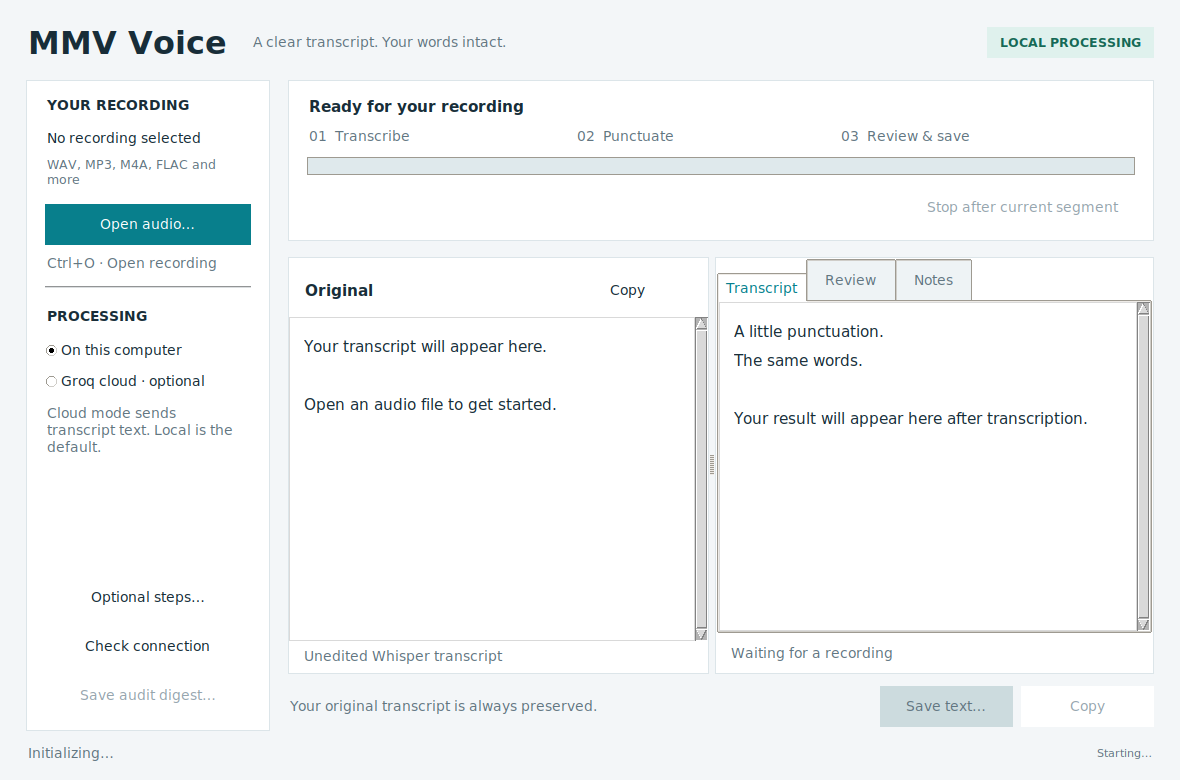
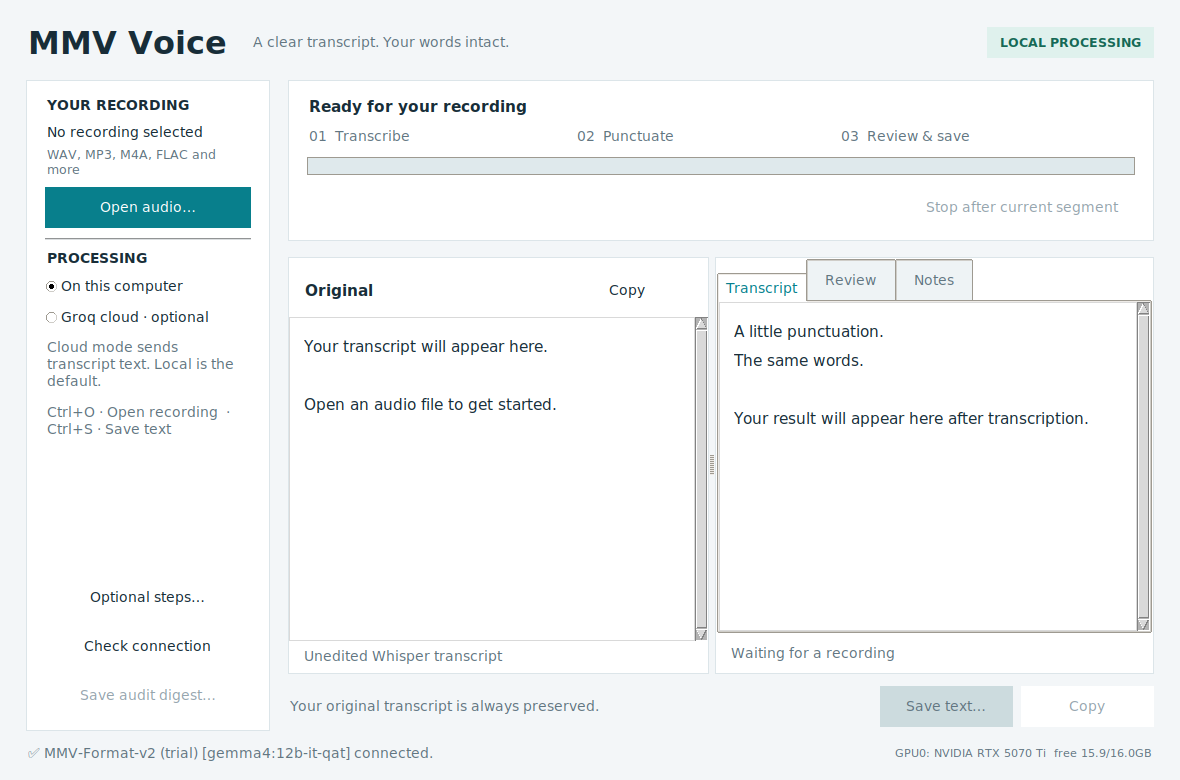
v0.2.6: HiDPI sidebar fix; v0.3/v0.3b HOLD reports in eval/; doc corrections
- desktop_ui.py: essential controls first, hints last, tighter spacing, so the
  local/cloud choice is never clipped at large Tk scaling (found on a 1.33x
  display); regression test at scaling 1.8 / 980x680
- eval/: v0.3 and v0.3b reports (both HOLD) so the notes point at evidence that
  is in the repository; README/landing/UI_UX_UPDATE state the v0.3b cause
  (auto language detection chose Dutch for an English meeting, WER 43% -> 85%)
- "being measured for v0.3" -> measured, on hold; diagram label -> Review tab;
  screenshot re-captured

No change to prompts, voice_mmv.py, profiles, validator or chunking.

diff --git a/index.html b/index.html
@@ -85,7 +85,7 @@ bash launch.sh            # opens the app</code></pre>
   <p class="note">Small read-speech panels; the 95% intervals overlap; FLEURS training overlap unresolved. Details: <a href="eval/mmv_voice_v024_20260926.md">v0.2.4 evidence</a>.</p>
 
   <h2>Long recordings: what to expect today</h2>
-  <p>On a real 17.5-minute, four-person meeting (AMI ES2004a), transcription took 32 s including model load (27 s transcribing) on one RTX 5070 Ti (WER 27% on overlapping, informal speech). Formatting stepped aside on 11 of 12 chunks, returning Whisper's text unchanged — your words stay safe, but on meetings you mostly get Whisper's own punctuation. Observed causes: the MMV governance layer prepended a boilerplate sentence to 6 conversational chunks; in the other 5 the model changed capitalisation, mostly where the 1,000-character split cut a sentence. A fix is being measured for v0.3.</p>
+  <p>On a real 17.5-minute, four-person meeting (AMI ES2004a), transcription took 32 s including model load (27 s transcribing) on one RTX 5070 Ti (WER 27% on overlapping, informal speech). Formatting stepped aside on 11 of 12 chunks, returning Whisper's text unchanged — your words stay safe, but on meetings you mostly get Whisper's own punctuation. Observed causes: the MMV governance layer prepended a boilerplate sentence to 6 conversational chunks; in the other 5 the model changed capitalisation, mostly where the 1,000-character split cut a sentence. Two fixes were measured and put on hold: stripping the boilerplate and splitting at sentence ends (v0.3) helped but missed its gate; adding Whisper's <code>condition_on_previous_text=False</code> (v0.3b) removed repetition loops and reached 4 of 5 formatted chunks, but Whisper's automatic language detection then labelled an English meeting as Dutch and WER rose from 43% to 85%. Reports: <a href="eval/mmv_voice_v03_20260926.md">v0.3</a>, <a href="eval/mmv_voice_v03b_20260926.md">v0.3b</a>.</p>
 
   <h2>Measured results</h2>
   <div class="table-wrap" tabindex="0" role="region" aria-label="Measured results, scroll horizontally on small screens"><table>

diff --git a/desktop_ui.py b/desktop_ui.py
@@ -56,20 +56,23 @@ class WorkspaceUI:
         def label(text, bold=False, pady=(0, 8)):
             tk.Label(inner, text=text, bg='white', fg=INK if bold else MUTED, anchor='w', justify='left', wraplength=200,
                      font=('DejaVu Sans', 10, 'bold' if bold else 'normal')).pack(fill='x', pady=pady)
-        label('YOUR RECORDING', True)
-        tk.Label(inner, textvariable=self.file_var, bg='white', fg=INK, anchor='w', justify='left', wraplength=200).pack(fill='x', pady=(4, 6))
-        tk.Label(inner, textvariable=self.file_detail_var, bg='white', fg=MUTED, anchor='w', justify='left', wraplength=200, font=('DejaVu Sans', 9)).pack(fill='x', pady=(0, 15))
+        # Order and padding matter: at large Tk scaling (HiDPI, e.g. 1.33x–1.8x) the
+        # sidebar is height-limited and clips from the bottom, so the essential
+        # controls (open, local/cloud choice) come first and the hints come last.
+        label('YOUR RECORDING', True, pady=(0, 4))
+        tk.Label(inner, textvariable=self.file_var, bg='white', fg=INK, anchor='w', justify='left', wraplength=200).pack(fill='x', pady=(2, 2))
+        tk.Label(inner, textvariable=self.file_detail_var, bg='white', fg=MUTED, anchor='w', justify='left', wraplength=200, font=('DejaVu Sans', 9)).pack(fill='x', pady=(0, 8))
         self.select_btn = ttk.Button(inner, text='Open audio…', style='Accent.TButton', command=self.select_file)
         self.select_btn.pack(fill='x')
-        label('Ctrl+O · Open recording', pady=(8, 12))
-        ttk.Separator(inner).pack(fill='x', pady=(0, 18))
-        label('PROCESSING', True)
+        ttk.Separator(inner).pack(fill='x', pady=(10, 8))
+        label('PROCESSING', True, pady=(0, 2))
         self.engine_m_btn = ttk.Radiobutton(inner, text='On this computer', variable=self.engine_var, value='M', command=self._refresh_privacy)
         self.engine_m_btn.pack(anchor='w')
         self.engine_l_btn = ttk.Radiobutton(inner, text='Groq cloud · optional', variable=self.engine_var, value='L', command=self._confirm_cloud_engine)
         self.engine_l_btn.pack(anchor='w')
         if not self._cloud_available: self.engine_l_btn.state(['disabled'])
-        label('Cloud mode sends transcript text. Local is the default.', pady=(6, 10))
+        label('Cloud mode sends transcript text. Local is the default.', pady=(4, 6))
+        label('Ctrl+O · Open recording  ·  Ctrl+S · Save text', pady=(4, 0))
         self.options_btn = ttk.Button(side_actions, text='Optional steps…', command=self._show_options)
         self.options_btn.pack(fill='x')
         self.option_widgets = [self.options_btn]

diff --git a/tests/test_desktop.py b/tests/test_desktop.py
@@ -35,6 +35,18 @@ class DesktopTests(unittest.TestCase):
             self.assertTrue(w.winfo_ismapped(),name)
             self.assertLessEqual(w.winfo_rooty()+w.winfo_height(),self.root.winfo_rooty()+self.root.winfo_height(),name)
         self.assertEqual(self.app.fmt_textbox.cget('state'),'disabled')
+    def test_minimum_layout_at_hidpi_scaling(self):
+        # Regression: on a 1.33x display the cloud-engine radio was clipped out of the sidebar (v0.2.5).
+        self.app._busy = False; self.app.on_closing()
+        self.root = tk.Tk(); self.root.tk.call('tk', 'scaling', 1.8)
+        with patch.object(gui.WhisperMMVGUI, '_startup_check', lambda self: None):
+            self.app = gui.WhisperMMVGUI(self.root)
+        self.root.report_callback_exception = lambda *args: self.errors.append(args)
+        self.root.geometry('980x680'); self.root.update()
+        for name in ['select_btn','engine_m_btn','engine_l_btn','options_btn','digest_btn','export_btn','kill_btn']:
+            w=getattr(self.app,name)
+            self.assertTrue(w.winfo_ismapped(),name)
+            self.assertLessEqual(w.winfo_rooty()+w.winfo_height(),self.root.winfo_rooty()+self.root.winfo_height(),name)
     def test_worker_updates_are_queued_and_bounded(self):
         seen=[]
         worker=threading.Thread(target=lambda:[self.app.ui(lambda:seen.append(threading.get_ident())) for _ in range(600)])

diff --git a/eval/mmv_voice_v03_20260926.md b/eval/mmv_voice_v03_20260926.md
@@ -1,0 +1,100 @@
+# mmv-voice v0.3: Long-form formatting repair evaluation
+
+## Decision
+
+**HOLD.** Version 0.3 substantially improved long-form formatting, but it missed the frozen held-out threshold: 5 of 11 held-out chunks were delivered with formatting (`45.45%`), below the required `50%`. One additional held-out chunk was valid but unchanged, so total validator acceptance was 6 of 11 (`54.55%`); the decision rule explicitly required *formatted* chunks, and that definition was not changed after observing the result.
+
+The other adoption gates passed. English and Japanese FLEURS acceptance and punctuation scores were unchanged, delivered WER equaled Whisper WER in every meeting condition, and all 13 existing-plus-new tests passed.
+
+## What changed
+
+The candidate is a minimal two-part change to the v0.2.4 copy. The lexical validator itself is unchanged and remains case-sensitive.
+
+**F1 — deterministic known-scaffold removal.** Before validation, v0.3 repeatedly removes only a leading, single-line route-transformer echo matching one of three anchors:
+
+- `premise embedded in your question`
+- `re-anchor against what I actually know`
+- `as of my training data`
+
+The match is the same narrow regular expression used by the existing GUI rewrite path. It does not remove arbitrary disclaimers or suffixes. Both the raw model output and the stripped candidate are retained in the audit record. A known scaffold followed by a changed word or changed letter case still fails the unchanged validator.
+
+**F2 — sentence-aware chunking.** At the 1,000-character limit, v0.3 chooses the last sentence end (`. ? ! 。 ？ ！`), otherwise the last complete whitespace run, otherwise the last complete source atom. It never splits an ASCII word or numeric atom, preserves exact reconstruction, and handles Japanese text without spaces. An indivisible atom longer than the limit remains whole and is rejected by the existing unsent-source guard.
+
+## Frozen evaluation
+
[1 lines of base64/hex data omitted]
+
+The development meeting was AMI `ES2004a`, the meeting that motivated the repair. Its previously saved Whisper transcript was reused. The held-out meeting was AMI `IS1009a`, from a different scenario series. Its Mix-Headset signal was transcribed once with Whisper `large-v3-turbo`, automatic English detection, and temperature 0. Both formatter conditions used the same E2 prompt, `gemma4:12b-it-qat` at digest `38044be4f923…`, temperature 0, speaker attribution off, and physical GPU0 through an isolated Ollama server.
+
+Held-out source provenance:
+
[2 lines of base64/hex data omitted]
+- License: [Creative Commons Attribution 4.0](https://groups.inf.ed.ac.uk/ami/corpus/license.shtml).
+
+For regression, the evaluation reused saved ASR for the same 12 `en_us` FLEURS clips from the v0.2.4 evaluation and the same 12 `ja_jp` FLEURS clips from the prior Japanese formatter evaluation. No FLEURS audio was transcribed again.
+
+## Long-form results
+
+| Dataset | Condition | Chunks | Formatted | Unchanged | Source retained | Accepted total | Wall time |
+|---|---:|---:|---:|---:|---:|---:|---:|
+| AMI ES2004a (development) | v0.2.4 | 12 | 1 | 0 | 11 | 1 | 51.76 s |
+| AMI ES2004a (development) | v0.3 | 13 | 9 | 0 | 4 | 9 | 49.29 s |
+| AMI IS1009a (held-out) | v0.2.4 | 10 | 1 | 0 | 9 | 1 | 40.04 s |
+| AMI IS1009a (held-out) | v0.3 | 11 | 5 | 1 | 5 | 6 | 40.72 s |
+
+The different chunk counts are expected: sentence-aware boundaries shorten some chunks and therefore change the partition while preserving exact source reconstruction.
+
+On development data, v0.3 formatted `69.23%` of chunks, versus `8.33%` for v0.2.4. On held-out data, it formatted `45.45%`, versus `10.00%` for v0.2.4. This is a large practical improvement on these two meetings, but the held-out value remains below the frozen adoption floor.
+
+### Which fix helped
+
+Both fixes contributed, but the evaluation does not provide a clean causal ablation of F2.
+
+- Applying F1 alone to the already-saved v0.2.4 candidates matched six development scaffolds and five held-out scaffolds. It newly rescued one chunk in each meeting; the remaining matched candidates still contained a case or lexical change and correctly failed.
+- In the full v0.3 run, F1 stripped six candidates in each meeting. Four stripped development candidates and three stripped held-out candidates passed the unchanged validator.
+- F2 changed the partitions from 12 to 13 development chunks and from 10 to 11 held-out chunks. Among full-v0.3 outputs that did not require F1, five development chunks and three held-out chunks were accepted (the held-out count includes one valid unchanged chunk). This is consistent with sentence-aligned starts reducing boundary-case failures, but model inference was rerun on different chunks, so this is not an isolated F2 counterfactual.
+
+The remaining five held-out chunks were source-retained because their candidates still failed with `content_changed`. The guard therefore continued to fail safely.
+
+## WER preservation
+
+WER used Unicode NFKC normalization, lowercase alphanumeric word tokens with internal apostrophes retained, and a deterministic speaker merge ordered by word start time, end time, speaker ID, and source order. Punctuation and non-lexical annotation events were excluded.
+
+| Dataset | Reference words | Whisper words | S / D / I | Whisper WER | v0.2.4 delivered WER | v0.3 delivered WER |
+|---|---:|---:|---:|---:|---:|---:|
+| ES2004a | 2,653 | 2,250 | 162 / 481 / 78 | 0.271768 | 0.271768 | 0.271768 |
+| IS1009a | 2,018 | 1,758 | 185 / 362 / 102 | 0.321606 | 0.321606 | 0.321606 |
+
+For all four meeting-condition pairs, the delivered normalized token sequence exactly equaled the raw Whisper token sequence. This proves lexical fail-safe behavior under this scorer; it does not prove that every accepted punctuation decision was natural or correct.
+
+## FLEURS regression
+
+| Language | Condition | Accepted clips | Position F1 | Position+type F1 |
+|---|---:|---:|---:|---:|
+| English (`en_us`) | v0.2.4 | 11 / 12 | 0.888889 | 0.864198 |
+| English (`en_us`) | v0.3 | 11 / 12 | 0.888889 | 0.864198 |
+| Japanese (`ja_jp`) | v0.2.4 | 11 / 12 | 0.767442 | 0.720930 |
+| Japanese (`ja_jp`) | v0.3 | 11 / 12 | 0.767442 | 0.720930 |
+
+There was no observed regression in clip acceptance, punctuation position F1, or punctuation position+type F1. These are single deterministic formatter runs over saved ASR, not independent statistical replicates.
+
+## Frozen gate verdicts
+
+| Gate | Result | Evidence |
+|---|---|---|
+| Held-out formatted chunks at least 50% | **FAIL** | `5 / 11 = 45.45%` |
+| English acceptance loss no worse than 1 clip | PASS | `11 / 12` versus `11 / 12` |
+| Japanese acceptance loss no worse than 1 clip | PASS | `11 / 12` versus `11 / 12` |
+| English position+type F1 loss no worse than 0.02 | PASS | `0.864198` versus `0.864198` |
+| Japanese position+type F1 loss no worse than 0.02 | PASS | `0.720930` versus `0.720930` |
+| Delivered WER equals Whisper everywhere | PASS | Exact in all four meeting-condition pairs |
+| Existing and new tests pass | PASS | 13 passed, 0 failed |
+
+Because adoption required every gate, the single held-out coverage failure determines **HOLD**.
+
+## Verification and limitations
+
+The unified implementation-and-tests diff applies cleanly to the v0.2.4 working tree. Tests cover exact known-scaffold removal, rejection after a scaffold plus a changed word or case, non-removal of unknown text, repeated known echoes, exact chunk reconstruction, limit compliance, no ASCII mid-word split, sentence preference, Japanese without spaces, and preservation of oversized atoms. The baseline checkout was not edited, committed, pushed, or uploaded.
+
+This is exploratory, unreviewed engineering evidence. AMI and FLEURS training contamination is unresolved. F1 and F2 were designed after inspecting ES2004a, and there is only one held-out meeting. There was no human naturalness or readability rating. The fixed baseline-first run order does not rule out cache or order effects. AMI Mix-Headset contains overlapping speakers, while the WER scorer imposes one deterministic stream and is not overlap-aware. Consequently, the results support a narrow claim—v0.3 improves safe long-form formatting coverage on these meetings without changing delivered lexical tokens—but not a corpus-wide quality or usability claim.

diff --git a/eval/mmv_voice_v03b_20260926.md b/eval/mmv_voice_v03b_20260926.md
@@ -1,0 +1,83 @@
+# mmv-voice v0.3b: repetition suppression evaluation
+
+**Decision: HOLD.** The candidate met the held-out formatting target at **4/5 chunks (80.00%)**, but it failed the frozen ASR non-inferiority gate on the new held-out meeting. W1 increased TS3010a WER from 43.26% to 85.01% (+41.75 pp); the allowed increase was 1.00 point. All other frozen gates passed.
+
+This is exploratory, descriptive, unreviewed local engineering evidence. It supports the release decision below, not a general performance or human-quality claim.
+
+## Change evaluated
+
+v0.3b consists of released v0.2.4 plus the previously frozen v0.3 formatter changes and one ASR change:
+
+- **F1:** strip only the three exact known governance-scaffold families before the unchanged lexical/numeric validator.
+- **F2:** prefer sentence endings, then whitespace, then a complete source atom when making exact-reconstruction 1,000-character chunks.
+- **W1:** pass `condition_on_previous_text=False` to Whisper. `word_timestamps` and `hallucination_silence_threshold` were not enabled, and compression-ratio, log-probability, and no-speech thresholds remained at library defaults.
+
+The W1 choice and all adoption thresholds were frozen and SHA-256 hashed before inference. The shipped v0.2.4 checkout was not modified.
+
+## Data and protocol
+
[1 lines of base64/hex data omitted]
+
[1 lines of base64/hex data omitted]
+
+AMI WER lowercases NFKC word tokens, removes punctuation, retains lexical apostrophes, and orders manual speaker words by start time, end time, speaker, then source order. FLEURS reports aggregate English WER and Japanese CER. Punctuation scoring reports boundary-position F1 and boundary-position-plus-type F1. The unchanged validator guarantees lexical/numeric preservation; the evaluation independently rechecked token signatures and ASR error rates after delivery.
+
+## ASR results
+
+| Dataset | Baseline | W1 | Change | Frozen allowance | Gate |
+|---|---:|---:|---:|---:|---|
+| TS3010a held-out WER | 43.26% | 85.01% | +41.75 pp | ≤ +1.00 pp | **FAIL** |
+| ES2004a dev WER | 27.18% | 27.21% | +0.04 pp | ≤ +1.00 pp | PASS |
+| IS1009a dev WER | 32.16% | 28.69% | -3.47 pp | ≤ +1.00 pp | PASS |
+| FLEURS en_us WER, 12 clips | 6.75% | 6.75% | +0.00 pp | ≤ +0.50 pp | PASS |
+| FLEURS ja_jp CER, 12 clips | 6.66% | 6.66% | +0.00 pp | ≤ +0.50 pp | PASS |
+
+W1 removed the targeted repetition pattern on all three AMI meetings. Tokens in identical runs of length at least three changed from **20 to 0** on TS3010a, **3 to 0** on ES2004a, and **129 to 0** on IS1009a. The longest IS1009a run fell from 88 consecutive `okay` tokens to 2.
+
+The held-out failure is not hidden by that success. Automatic language selection returned `nl` for both TS3010a runs. Baseline previous-text conditioning allowed much of the English meeting to remain English, whereas W1 produced substantially more Dutch rendering. Against the English manual reference, the resulting substitutions/deletions outweighed the removed repetition. Because automatic language selection was frozen as the application path, the evaluation did not rescue the result by pinning English after observation.
+
+## Formatter results and fix contributions
+
+| Held-out condition | ASR input | Formatted chunks | Accepted chunks | Known scaffold stripped |
+|---|---|---:|---:|---:|
+| v0.2.4 | baseline | 0/6 | 0/6 | 0 |
+| v0.3 (F1+F2) | same baseline | 2/6 | 2/6 | 4 |
+| v0.3b (F1+F2+W1) | W1 | 4/5 | 4/5 | 0 |
+
+On identical baseline ASR, F1+F2 added **2 formatted chunks** (0/6 to 2/6). The complete W1 pipeline added another **2 formatted chunks** relative to v0.3 (2/6 to 4/5), and its 80% rate passed the 50% formatting gate. That second delta is a pipeline contribution, not a same-input formatter ablation: W1 shortened and changed the transcript, so its denominator is five chunks rather than six.
+
+## FLEURS regression
+
+| Language | Acceptance v0.2.4 → v0.3b | Position F1 v0.2.4 → v0.3b | Position+type F1 v0.2.4 → v0.3b | Gate |
+|---|---:|---:|---:|---|
+| English | 11/12 → 11/12 | 0.8889 → 0.8889 | 0.8642 → 0.8642 | PASS |
+| Japanese | 11/12 → 11/12 | 0.7674 → 0.7674 | 0.7209 → 0.7209 | PASS |
+
+The 24 short FLEURS transcripts were byte-for-byte unchanged by W1 at the transcript level, so ASR, acceptance, and punctuation scores were unchanged. This is a regression result, not evidence that W1 is inert on longer or low-energy audio.
+
+## Frozen gate verdicts
+
+| Gate | Verdict |
+|---|---|
+| New held-out v0.3b formatted chunks ≥ 50% | PASS — 4/5 (80%) |
+| W1 AMI WER ≤ baseline +1.0 point, each meeting | **FAIL** — TS3010a +41.75 points; both dev meetings pass |
+| W1 FLEURS en WER / ja CER ≤ baseline +0.5 point | PASS — both unchanged |
+| FLEURS acceptance and position+type F1 regression limits | PASS — both languages unchanged |
+| Delivered tokens equal corresponding Whisper tokens everywhere | PASS |
+| Existing and new tests | PASS — 14/14 |
+
+The conjunction therefore yields **HOLD**, despite the formatting-rate and repetition-suppression gains.
+
+## Limitations
+
+- **Development contamination:** W1 was selected in response to failures on ES2004a and IS1009a. Their gains are descriptive and not independent confirmation.
+- **Model-data contamination:** AMI and FLEURS may occur in model training data. No training-corpus cutoff or contamination-controlled subset was available, so broad benchmark claims are blocked.
+- **One new meeting:** TS3010a is one held-out meeting from one site/series. It cannot estimate performance across meetings, accents, languages, acoustic conditions, or durations.
+- **Automatic-language interaction:** both held-out runs selected Dutch. The large WER loss is specific to the frozen automatic-language application path and may not extrapolate to language-pinned transcription; pinning after seeing the result would be a new experiment.
+- **No human rating:** no one rated punctuation naturalness, readability, or semantic appropriateness. The validator proves a bounded lexical/numeric property, not overall quality.
+- **Order effects:** formatter conditions ran in the fixed order v0.2.4, v0.3, v0.3b on a warmed local service. Runtime comparisons are therefore not causal.
+- **Single ASR run:** each configuration ran once. The release gate is deterministic and conservative, but this study does not estimate run-to-run variance.
+
+## Reproducibility and operational checks
+
+`v03b.diff` applies cleanly to v0.2.4 and includes `voice_mmv.py`, `whisper_gui.py`, the existing formatter tests, and the new transcribe-option test. Fourteen tests passed both in the candidate copy and after applying the diff to a fresh v0.2.4 archive. All generated ASR records identify physical GPU0; no GPU1 workload was launched. The isolated Ollama process was stopped by its recorded PID, port 11440 was verified closed, and the existing service on port 11434 remained listening. No commit, push, upload, or shipped-checkout edit was made.

diff --git a/README.md b/README.md
@@ -165,9 +165,17 @@ CC BY 4.0), on one RTX 5070 Ti:
   changed capitalisation — in 4 at a chunk that starts mid-sentence (the
   1,000-character split cuts sentences), plus mid-chunk changes such as
   "And" → "and"; one also dropped a repeated "Thank you". All are rejected
-  by the word check, as designed. A fix (strip the known
-  boilerplate before the check, split at sentence ends) is being measured
-  for v0.3.
+  by the word check, as designed. Two fixes were measured and are **on
+  hold**: v0.3 (strip the known boilerplate before the check, split at
+  sentence ends) raised the formatted share on a new held-out meeting from
+  0/6 to 2/6 but missed its ≥50% gate on another; v0.3b added Whisper
+  `condition_on_previous_text=False`, which removed the repetition loops on
+  all three meetings and reached 4/5 formatted chunks, but on the new
+  held-out meeting Whisper's automatic language detection then chose Dutch
+  for an English meeting and WER rose from 43% to 85% (the two development
+  meetings: +0.04 and −3.47 points). Reports:
+  [v0.3](eval/mmv_voice_v03_20260926.md),
+  [v0.3b](eval/mmv_voice_v03b_20260926.md).
 
 ## Reference: Mandarin Chinese
 
@@ -409,6 +417,7 @@ formatting quality; that comes only from held-out audio trials recorded in
 | Tag | Date | Content |
 |---|---|---|
 | `v0.1` | 2026-07-06 | original release: MMV-M (`gemma4:12b`) via release pointer, filler removal and rewriting, fidelity check, speaker attribution, minutes, digest, opt-in MMV-L |
+| `v0.2.6` | 2026-09-26 | sidebar layout fix for HiDPI displays (cloud-engine choice was clipped at 1.33× scaling); v0.3 / v0.3b HOLD reports added to `eval/`; stale "being measured" wording and diagram label updated |
 | `v0.2.5` | 2026-09-26 | desktop UI refresh: one workspace (source and result side by side), main-thread event queue, sequential stop → release → format lifecycle, UTF-8 text export (Ctrl+O / Ctrl+S), elapsed time and explicit local/cloud state; responsive landing page. No change to prompts, profiles, validator or chunking |
 | `v0.2.4` | 2026-09-26 | English prompt: semicolon hint removed (measured on 12 new clips); `install.sh` one-command local installer (also pre-fetches Whisper weights so work is offline); local-first README and diagrams; long-meeting result documented |
 | `v0.2.3` | 2026-09-26 | documentation only: English results as the lead topic of the README and landing page; Mandarin reference measurement added in `eval/` |

diff --git a/docs/UI_UX_UPDATE.md b/docs/UI_UX_UPDATE.md
@@ -17,4 +17,4 @@ Browser checks at 1440 × 900 and 390 × 844 found no horizontal page overflow; 
 
 ## Integration with Claude
 
-This build does not modify voice_mmv.py, model prompts or profiles. The v0.3b experiment (scaffold strip, sentence-aware chunking, Whisper `condition_on_previous_text=False`) was evaluated separately and put on HOLD: it raised WER on the new held-out meeting by 41.75 points, so none of it is included here.
+This build does not modify voice_mmv.py, model prompts or profiles. The v0.3b experiment (scaffold strip, sentence-aware chunking, Whisper `condition_on_previous_text=False`) was evaluated separately and put on HOLD: the repetition loops disappeared and 4 of 5 chunks were formatted, but on the new held-out meeting Whisper's automatic language detection chose Dutch for English speech and WER rose from 43% to 85% (the two development meetings were unchanged or better). None of it is included here; reports are in `eval/mmv_voice_v03_20260926.md` and `eval/mmv_voice_v03b_20260926.md`.
